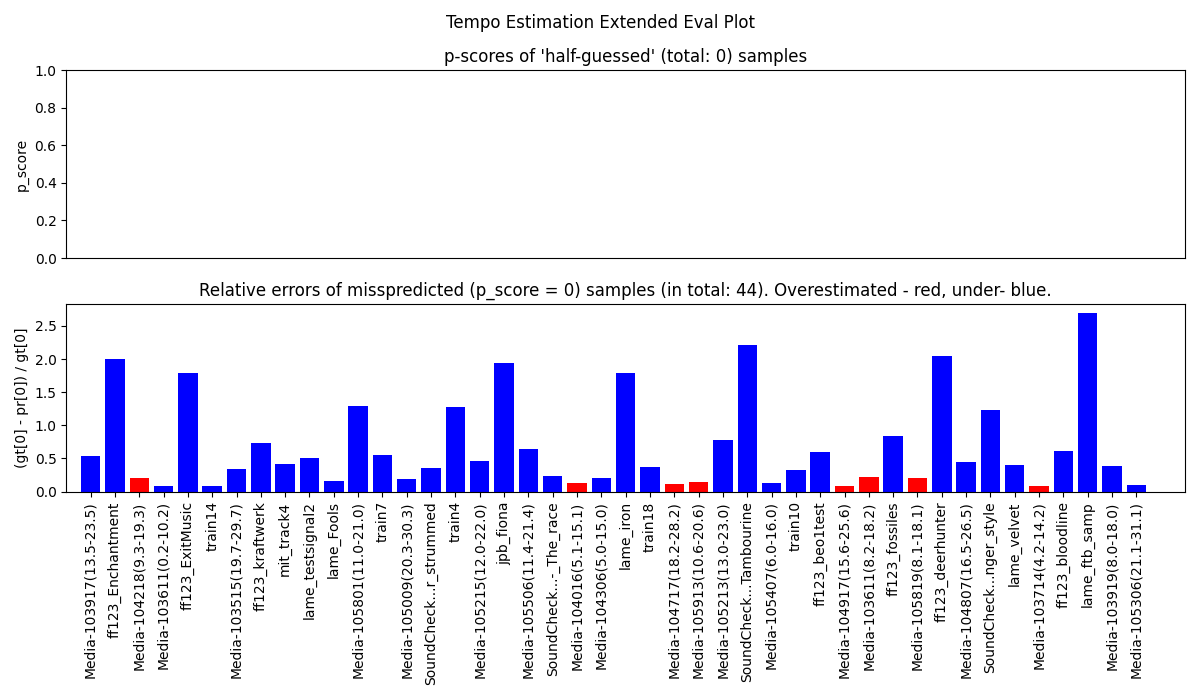
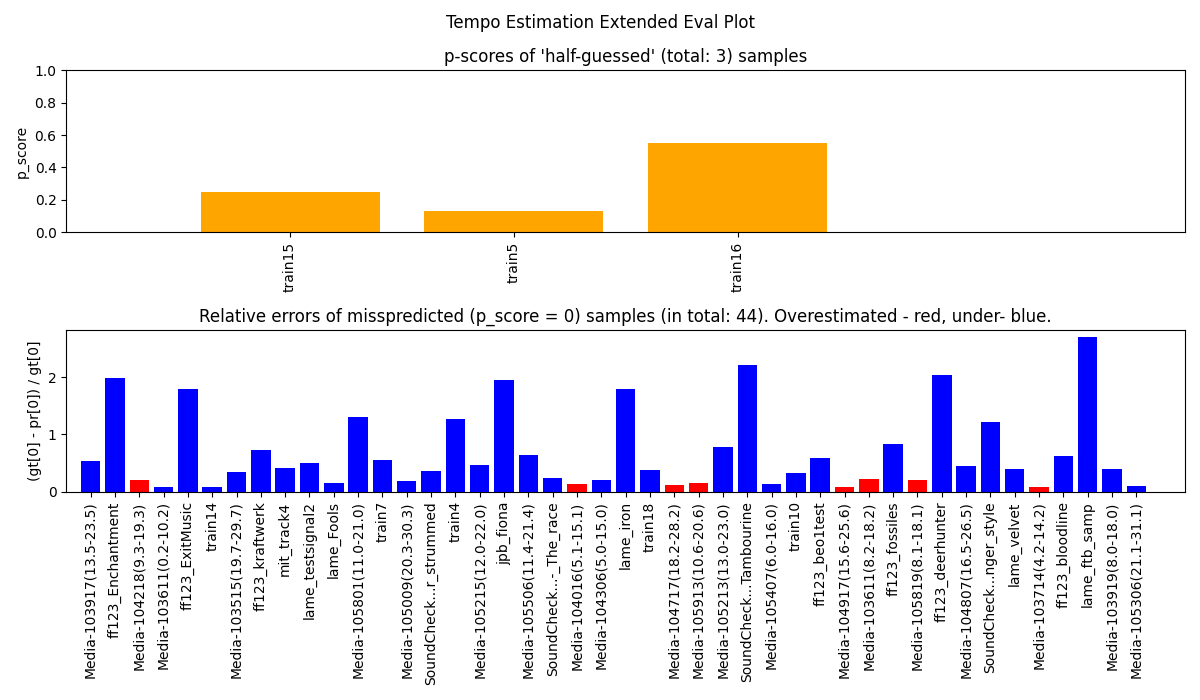
Fixedbug with no half-guessed tempos

diff --git a/evaluate.py b/evaluate.py
@@ -154,7 +154,7 @@ def eval_tempo(truth, preds, options):
         worst_estimates = dict()
         p_score_avg = np.mean(p_scores)
         for k in tempo_evals:
-            if tempo_evals[k][1] < p_score_avg and not tempo_evals[k][2]:
+            if tempo_evals[k][0] < p_score_avg and not tempo_evals[k][2]:
                     if tempo_evals[k][0] > 0:
                         bad_estimates[k] = tempo_evals[k]
                     else:

diff --git a/README.md b/README.md
@@ -95,6 +95,7 @@ SoundCheck2_73_Instrumental_Tambourine
 ff123_bloodline
 Media-105306(21.1-31.1)
 SoundCheck2_82_Yello_-_The_race
+train16
 train18
 ff123_ExitMusic
 Media-105801(11.0-21.0)
